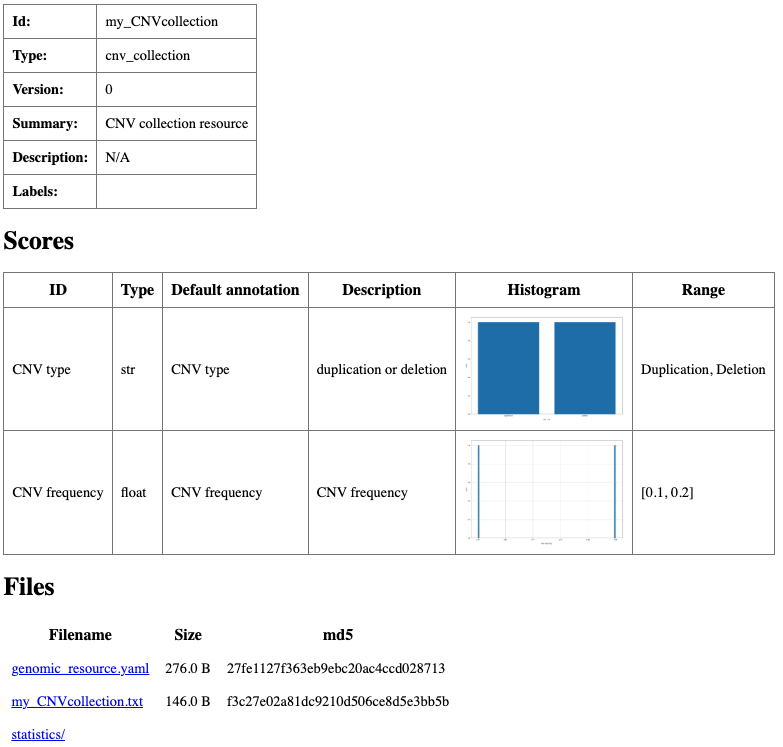
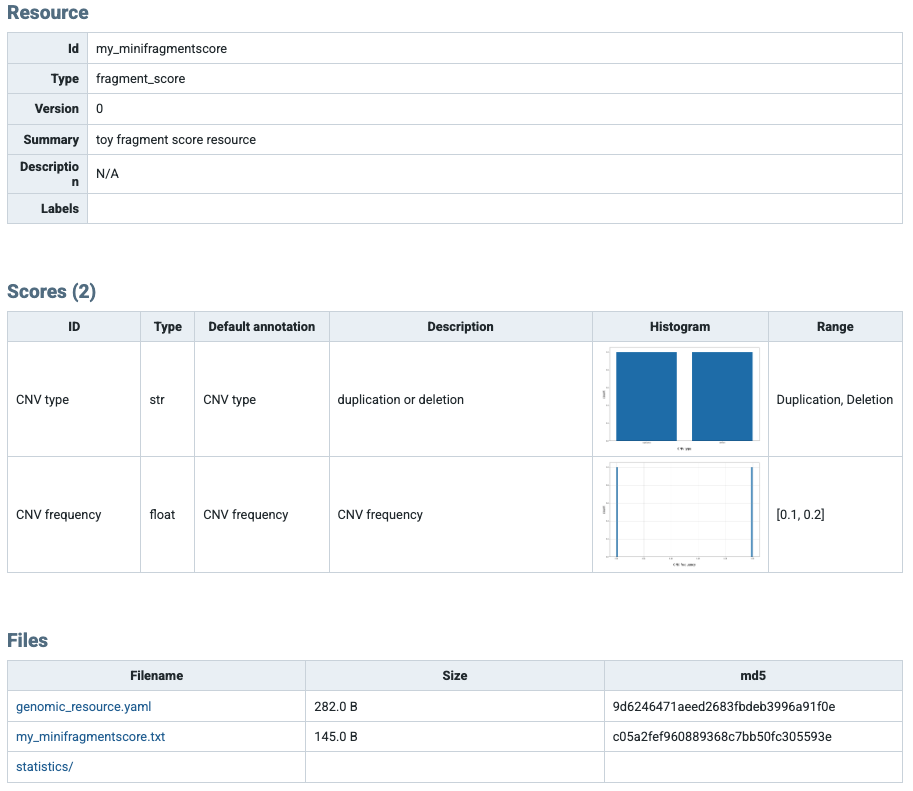
fragment_score nomenclature updated till CNV collection (Iossifov 2021)

diff --git a/docs/source/gain_getting_started_grr.rst b/docs/source/gain_getting_started_grr.rst
@@ -858,32 +858,29 @@ This validates the resource for annotation and generates an HTML summary page wi
   Partial screen shot of the summary html page created for ``my_genesets`` resource.
 
 
-12: Toy CNV collection
+12: Toy fragment score
 ^^^^^^^^^^^^^^^^^^^^^^
 
-Copy-number variants (CNVs) are deletions or duplications of genomic segments. 
-In practice, CNV resources summarize previously observed gains and losses so you can contextualize a query locus by 
-interval overlap. In GAIn, CNV collections are represented as tabular files plus a small YAML definition that 
-declares which columns should be exposed as annotation attributes.
+Copy-number variants (CNVs) are deletions or duplications of genomic segments. In GAIn, CNV data can be represented using fragment score resources, which consist of a tabular file and a YAML definition specifying the genomic intervals and associated annotation attributes.
 
 Create a new folder for the resource and move into it:
 
 .. code-block:: bash
 
-    mkdir my_miniCNVcollection
-    cd my_miniCNVcollection
+    mkdir my_minifragmentscore
+    cd my_minifragmentscore
 
-Run the following command to create a tab-separated CNV collection file called my_miniCNVcollection.txt. The file has six columns: chromosome name, start position, end position, CNV name, deletion/duplication class, and frequency.
+Run the following command to create a tab-separated file called my_minifragmentscore.txt. The file has six columns: chromosome name, start position, end position, CNV name, deletion/duplication class, and frequency.
 
 .. code-block:: bash
 
-    cat <<'EOF' | awk 'BEGIN{OFS="\t"} {print $1,$2,$3,$4,$5,$6}' > my_miniCNVcollection.txt
+    cat <<'EOF' | awk 'BEGIN{OFS="\t"} {print $1,$2,$3,$4,$5,$6}' > my_minifragmentscore.txt
     chrom   pos_beg pos_end CNV_name          deletion_duplication frequency
     chr1    3       15      Chr1_duplication  Duplication           0.1
     chr2    5       15      Chr2_duplication  Deletion              0.2
     EOF
 
-This file defines two example CNVs. Each row specifies an interval (``chrom``, ``pos_beg``, ``pos_end``), a CNV identifier (``CNV_name``), the CNV type (``deletion_duplication``) and ``frequency``.
+This file defines two example fragments, corresponding to CNVs. Each row specifies an interval (``chrom``, ``pos_beg``, ``pos_end``), a CNV identifier (``CNV_name``), the CNV type (``deletion_duplication``) and ``frequency``.
 
 Next, create a ``genomic_resource.yaml`` file in the same directory with this content:
 
@@ -891,7 +888,7 @@ Next, create a ``genomic_resource.yaml`` file in the same directory with this co
 
     type: fragment_score
     table:
-      filename: my_miniCNVcollection.txt
+      filename: my_minifragmentscore.txt
 
     scores:
     - id: CNV type
@@ -904,26 +901,25 @@ Next, create a ``genomic_resource.yaml`` file in the same directory with this co
       desc: CNV frequency
 
     meta:
-      summary: CNV collection resource
+      summary: toy fragment score resource
 
 
-In this resource, the interval columns (``chrom``, ``pos_beg``, ``pos_end``) are stored in the table and used for overlap queries, 
-while the two fields listed under scores (CNV type and CNV frequency) are exposed as attributes that can be emitted in annotation output.
+In this resource, the interval columns (``chrom``, ``pos_beg``, ``pos_end``) are stored in the table and used for overlap queries, while the two fields listed under scores (CNV type and CNV frequency) are exposed as attributes that can be emitted in annotation output.
 
-Finally, while still in the ``my_miniCNVcollection`` directory, run:
+Finally, while still in the ``my_minifragmentscore`` directory, run:
 
 .. code-block:: bash
 
     grr_manage resource-repair
 
 
-This command checks that the resource is usable for annotation and produces an HTML summary file with basic descriptions for the CNV collection resource.
+This command checks that the resource is usable for annotation and produces an HTML summary file with basic descriptions for the fragment score resource.
 
 .. figure:: figures/example12_resource.png
     :scale: 50 %
     :align: center
 
-    Summary html page created for ``my_miniCNVcollection`` resource.
+    Summary HTML page created for ``my_minifragmentscore`` resource.
 
 
 13: CNV collection (Iossifov 2021)

diff --git a/docs/source/index.rst b/docs/source/index.rst
@@ -13,7 +13,7 @@ Annotation is a core step in genomic analysis:
 sequencing and other genomic assays identify variants, positions, or regions,
 and annotation adds the biological and clinical context needed to interpret them. GAIn is an
 infrastructure for running annotation in a consistent, reproducible way—by combining curated
-resources (genomes, gene models, scores, gene sets, CNV collections, and plugins) with a user-defined annotation
+resources (genomes, gene models, scores, gene sets, and plugins) with a user-defined annotation
 pipeline that specifies what to compute and what to emit. This documentation walks through how to
 use GAIn end to end: getting started on the web and the CLI, discovering and building Genomic Resource
 Repositories (GRRs), configuring resources, writing and running annotation pipelines, and using the web
@@ -23,7 +23,7 @@ and Python interfaces.
 .. figure:: figures/main_diagram.png
 
 
-    **Overview of GAIn**. Genomic resources (reference genomes, gene models, scores, CNV collections, gene scores) are organized in a Genomic Resource Repository (GRR). An annotation pipeline chains annotators that draw on these resources to produce an annotated table or VCF. The example highlights dependency flow: a gene score annotator consumes the gene list produced by the effect annotator. Right: core GAIn tools for GRR management (``grr_browse``, ``grr_manage``), pipeline documentation (``annotate_doc``), and annotation (``annotate_tabular``, ``annotate_vcf``).
+    **Overview of GAIn**. Genomic resources (reference genomes, gene models, position, allele, fragment, and gene scores) are organized in a Genomic Resource Repository (GRR). An annotation pipeline chains annotators that draw on these resources to produce an annotated table or VCF. The example highlights dependency flow: a gene score annotator consumes the gene list produced by the effect annotator. Right: core GAIn tools for GRR management (``grr_browse``, ``grr_manage``), pipeline documentation (``annotate_doc``), and annotation (``annotate_tabular``, ``annotate_vcf``).
 
 A preprint describing GAIn is available on `bioRxiv <https://doi.org/10.64898/2026.07.08.737273>`_.
 

diff --git a/docs/source/gain_getting_started_cli.rst b/docs/source/gain_getting_started_cli.rst
@@ -167,7 +167,7 @@ Using the VEP effect annotator
 ------------------------------
 GAIn has an extensible annotation infrastructure. In addition to the annotators included with GAIn, specialized annotators can be added through separately installed packages. In this example, we use ``vep_effect_annotator`` to predict variant consequences with the Ensembl Variant Effect Predictor (VEP). This annotator is available through the separately installed ``gain-vep-annotator`` package. Whereas ``vep_full_annotator`` requires a separately downloaded local VEP cache, ``vep_effect_annotator`` uses reference genome and gene models resources from a GAIn GRR. For a more detailed description of both VEP annotators and their configuration options, see the `VEP annotators <https://iossifovlab.com/gaindocs/annotation_infrastructure.html#vep-annotators>`_ section of the Annotation infrastructure page.
 
-Before continuing, install the `gain-vep-annotator` package in your current GAIn environment:
+Before continuing, install the ``gain-vep-annotator`` package in your current GAIn environment:
 
 .. code-block:: bash
 
